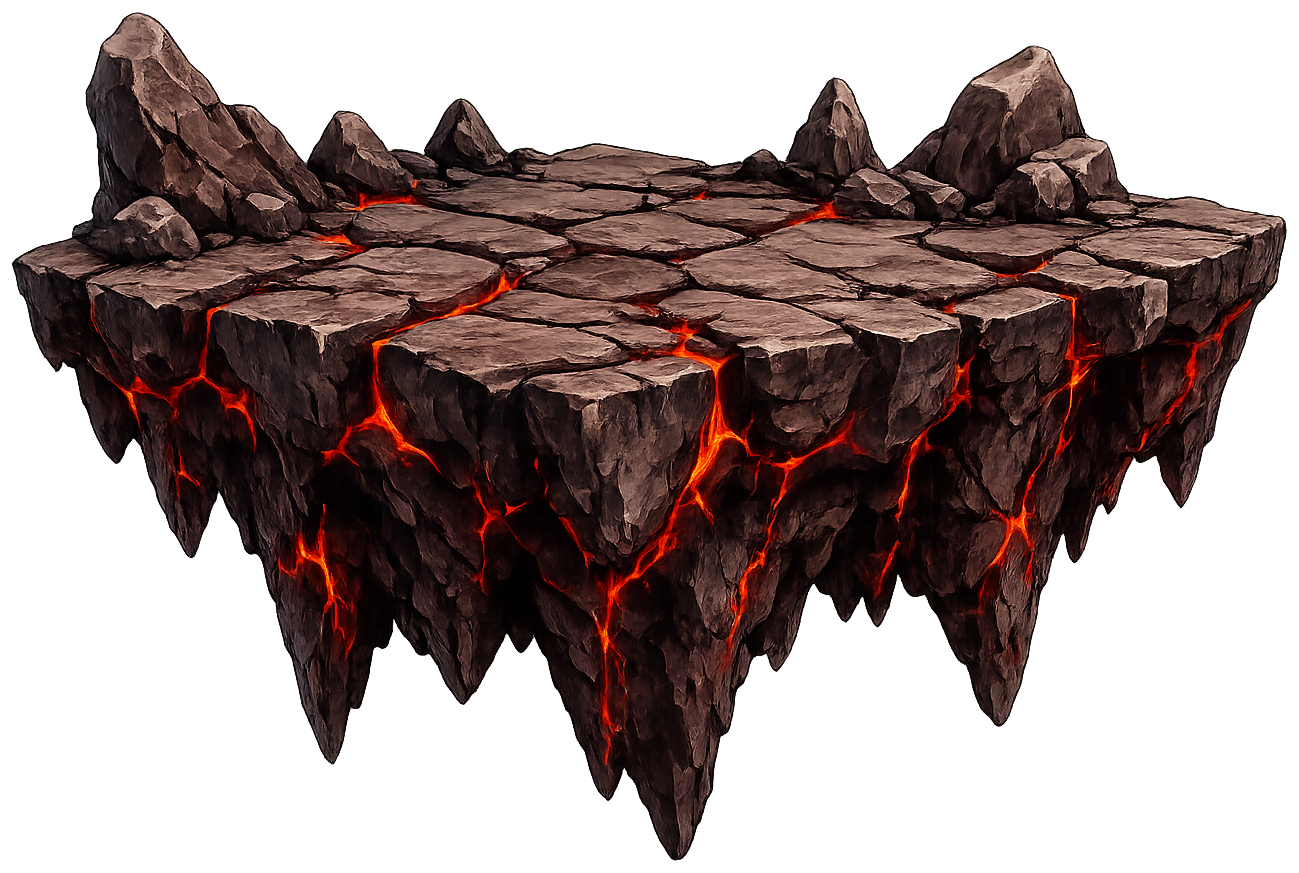
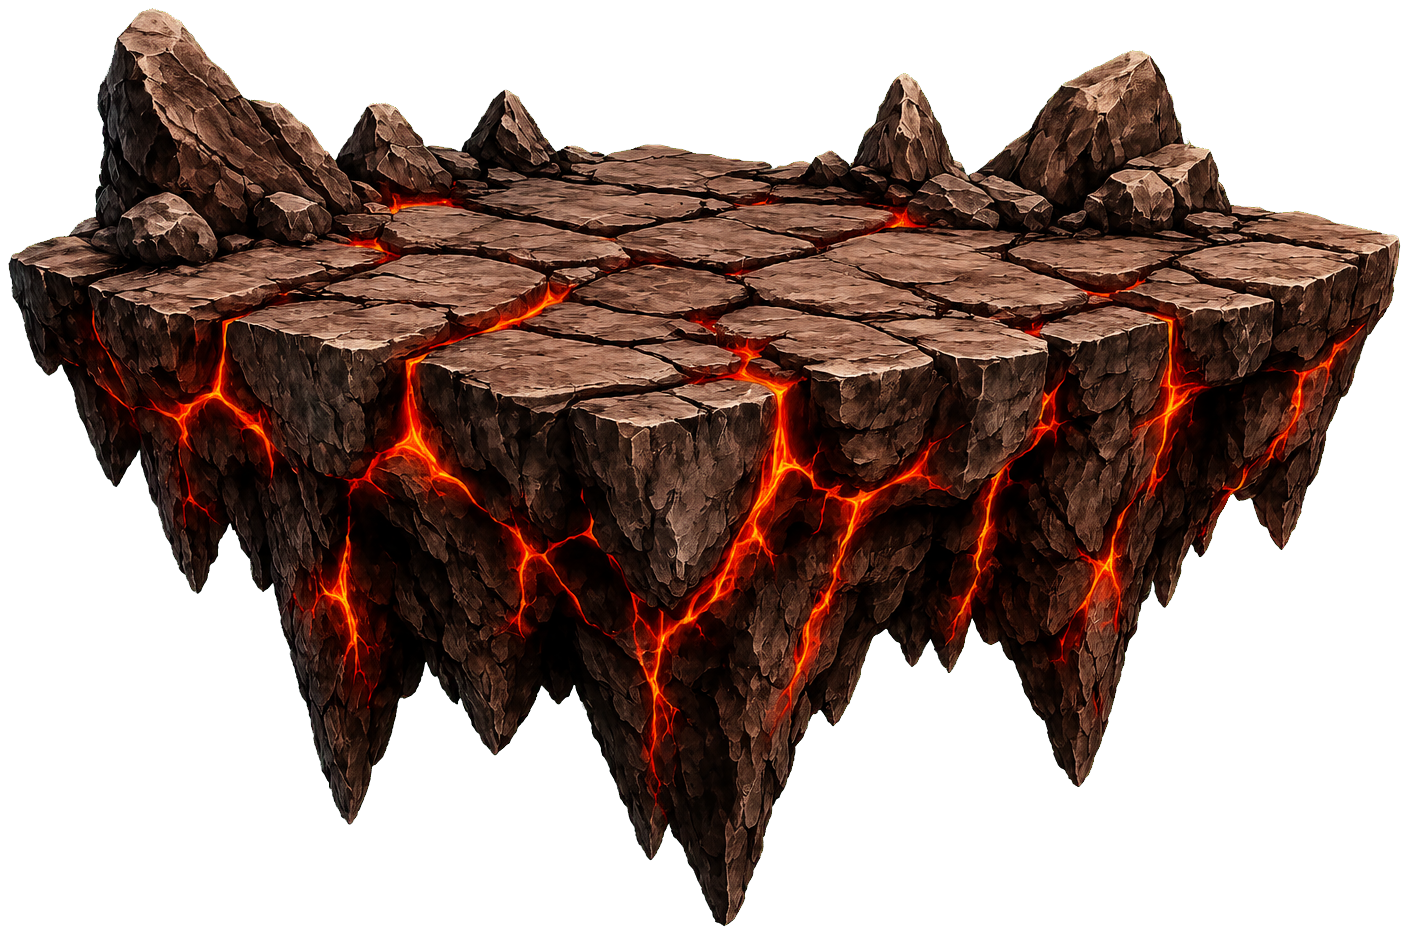
Replace Colt Run platform 10

diff --git a/app.js b/app.js
@@ -2051,6 +2051,7 @@ function startColtRunGame() {
   platformAssetVersions[3] = "20260718-platform04-replace1";
   platformAssetVersions[4] = "20260718-platform05-replace1";
   platformAssetVersions[8] = "20260718-platform09-replace1";
+  platformAssetVersions[9] = "20260719-platform10-replace1";
   platformAssetVersions[12] = "20260718-platform13-replace1";
   platformAssetVersions[13] = "20260718-platform14-replace1";
   platformAssetVersions[14] = "20260718-platform15-replace1";

diff --git a/index.html b/index.html
@@ -8,7 +8,7 @@
 </head>
 <body>
   <main id="app" class="app-shell"></main>
-  <script src="app.js?v=20260718-platform13-replace1"></script>
+  <script src="app.js?v=20260719-platform10-replace1"></script>
 </body>
 </html>
 
